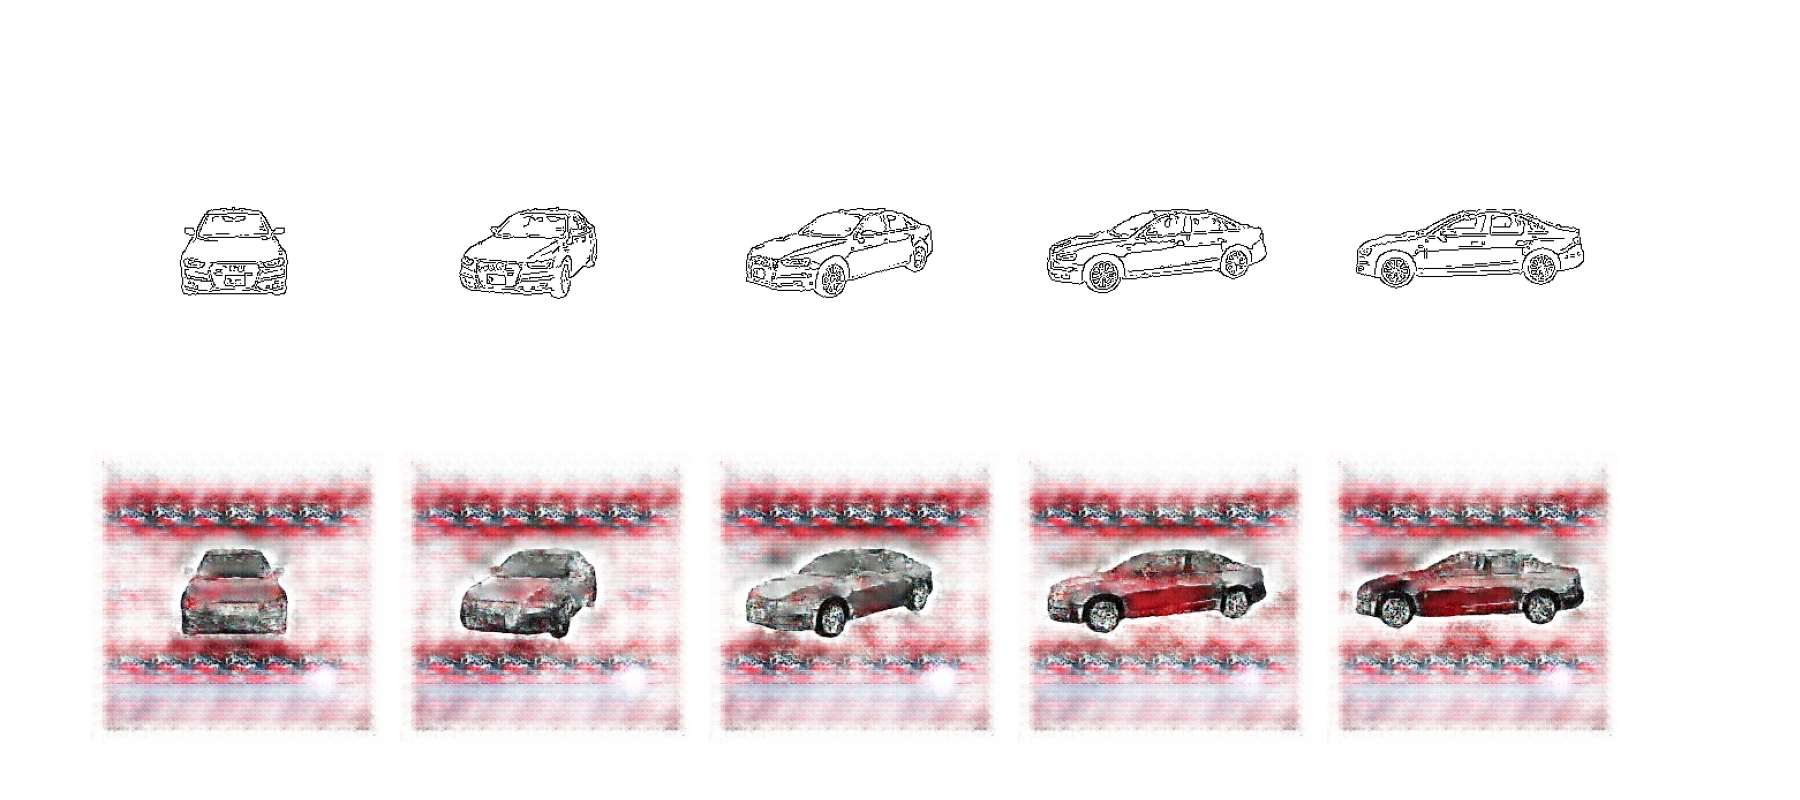
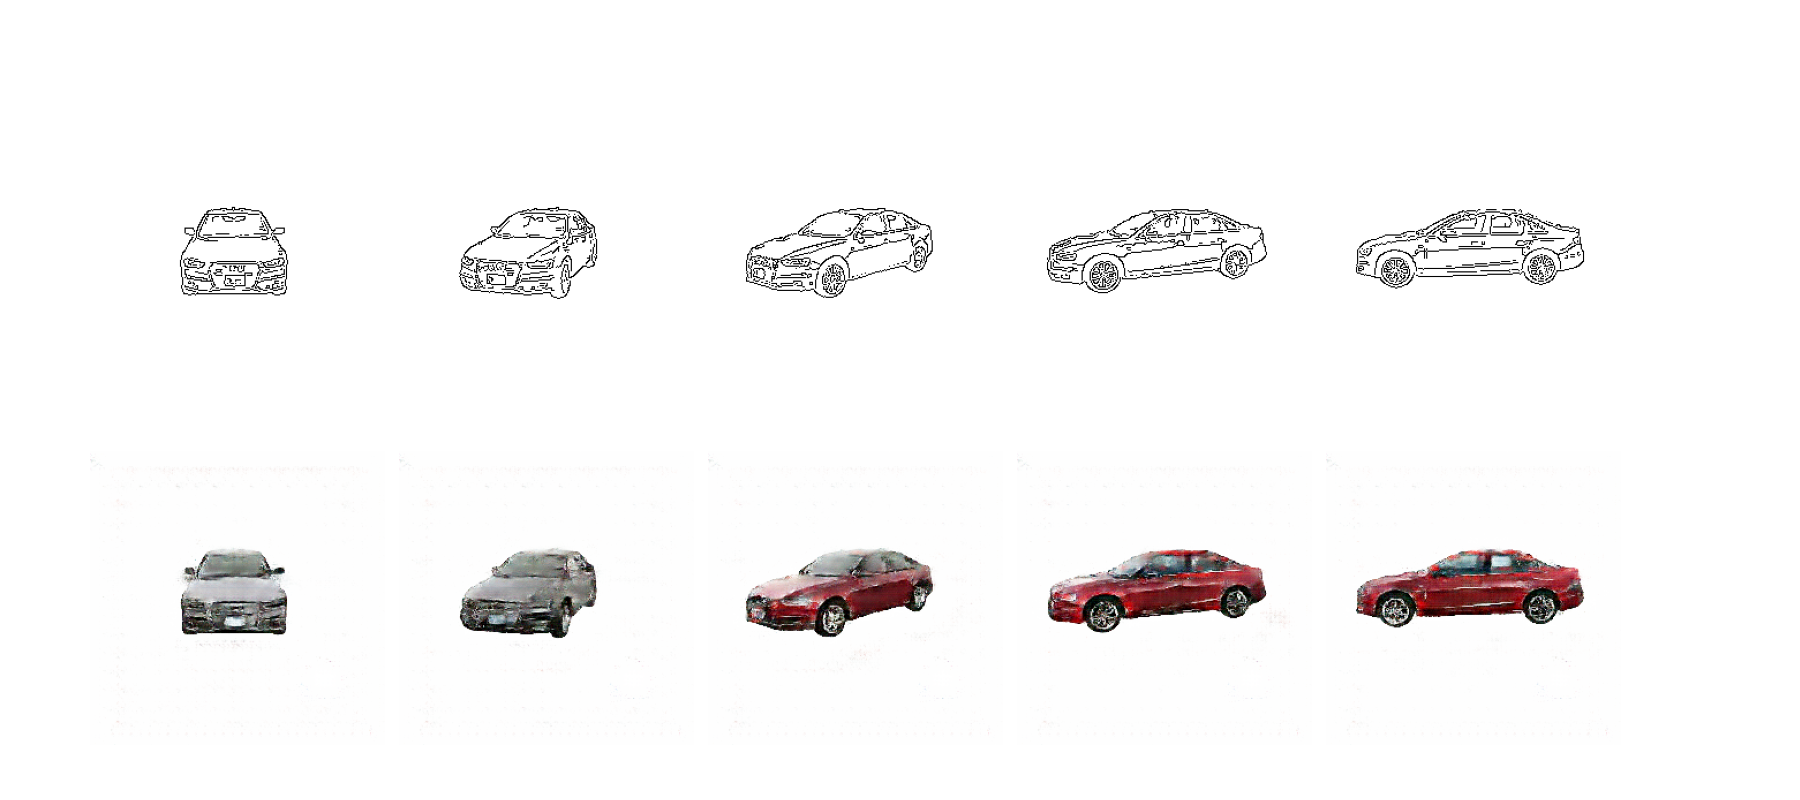
Article writing

Changed region(s): [[0.0311, 0.5938, 0.9022, 0.9375]]

diff --git a/src/generate.py b/src/generate.py
@@ -11,14 +11,14 @@ def generate_images_from_doodles():
     generator = torch.load(RESULTS_PATH+'best_generator.pt')
     generator.eval()
 
-    doodles_names = glob.glob(DOODLES_PATH+'*.jpg')
+    doodles_names = glob.glob(DOODLES_PATH+'*.png')
     with torch.no_grad():
         for doodle_name in doodles_names:
             doodle = np.array(Image.open(doodle_name))
             doodle = transforms.ToTensor()(doodle)
             doodle = TF.resize(doodle, (IMAGE_SIZE, IMAGE_SIZE))
 
-            image = generator(doodle[None, ...].to(DEVICE))[0]
+            image = generator(doodle[None, :3, :, :].to(DEVICE))[0]
             image = transforms.ToPILImage()(image.cpu()).convert("RGB")
 
             f_name = 'image_from_' + doodle_name.split('\\')[-1]

diff --git a/README.md b/README.md
@@ -6,7 +6,8 @@
 
 `bin`  
 `--download_car_dataset.sh # пример загрузки подготовленного датасета с автомобилями`  
-`scripts`  
+`--download_best_generator.sh # пример загрузки обученного генератора для датасета с автомобилями`
+`scripts`    
 `--prepare_car_dataset.py  # преобразование датасета с изображениями под задачу pix2pix`  
 `src`  
 `--utils`  
@@ -38,7 +39,7 @@
 
 Набор данных из [соревнования по сегментации автомобилей на изображении](https://www.kaggle.com/c/carvana-image-masking-challenge/data). В нашем распоряжении фотографии автомобилей под разными углами (каждому автомобилю соответствует 16 фотографий под разными углами) и сегментационные маски к ним.
 
-<img src="article/carvana.jpg" width="20%" /><img src="article/carvana_mask.gif" width="20%" />
+<img src="article/carvana.jpg" width="25%" /><img src="article/carvana_mask.gif" width="25%" />
 
 Для того, чтобы подготовить этот набор данных для задачи pix2pix необходимо:
 
@@ -58,7 +59,7 @@
 
 ### Обучение
 
-Архитектуры генератора и дискриминатора реализованы согласно приложению статьи в файлах `generator.py` и `discriminator.py` соответственно. Эпоха обучения реализована в файле `train.py`, а цикл обучения в файле `eval.py`.  После каждой эпохи сохраняем несколько примеров генерации изображений по изображениям из валидационного датасета, а также веса модели генератора для того, чтобы иметь возможность выбрать наилучший вариант генератора.
+Архитектуры генератора и дискриминатора реализованы согласно приложению статьи в файлах `generator.py` и `discriminator.py` соответственно. Эпоха обучения реализована в файле `train.py`, а цикл обучения в файле `eval.py`.  После каждой эпохи сохраняем несколько примеров генерации изображений по изображениям из валидационного датасета, а также веса генератора для того, чтобы иметь возможность выбрать наилучший вариант генератора.
 
 Для запуска обучения достаточно запустить `eval.py`. Предполагается, что изображения для обучения находятся в директории data в корне проекта (для дополнительной информации см. переменные TRAIN_IMAGES_PATH и VALID_IMAGES_PATH в `config.py`).
 
@@ -87,15 +88,18 @@
 
 Далее создадим несколько простых скетчей и сгенерируем из них изображения. Код генерации из набросков приведен в файле `generate.py`.
 
-<img src="article/doodle_001.png" /><img src="article/doodle_001.png" />
+<img src="article/doodle_001.png" /><img src="article/image_from_doodle_001.png" />
 
-<img src="article/doodle_002.png" /><img src="article/doodle_002.png" />
+<img src="article/doodle_002.png" /><img src="article/image_from_doodle_002.png" />
 
-<img src="article/doodle_003.png" /><img src="article/doodle_003.png" />
+<img src="article/doodle_003.png" /><img src="article/image_from_doodle_003.png" />
 
-<img src="article/doodle_004.png" /><img src="article/doodle_004.png" />
+<img src="article/doodle_004.png" /><img src="article/image_from_doodle_004.png" />
 
-<img src="article/doodle_005.png" /><img src="article/doodle_005.png" />
+<img src="article/doodle_005.png" /><img src="article/image_from_doodle_005.png" />
 
 ### Выводы
 
+В работе реализован алгоритм для решения задачи преобразования изображения краев объекта в цветное изображение. Как было показано выше, алгоритм хорошо справляется, как с датасетом авторов статьи, так и с датасетом, который мы выбрали. 
+
+К сожалению, генератору, обученному на данном датасете хуже удается генерировать изображения из набросков, созданных вручную. Скорей всего, это связано с тем, что в обучающем датасете на изображениях краев автомобиля много мелких деталей. 
